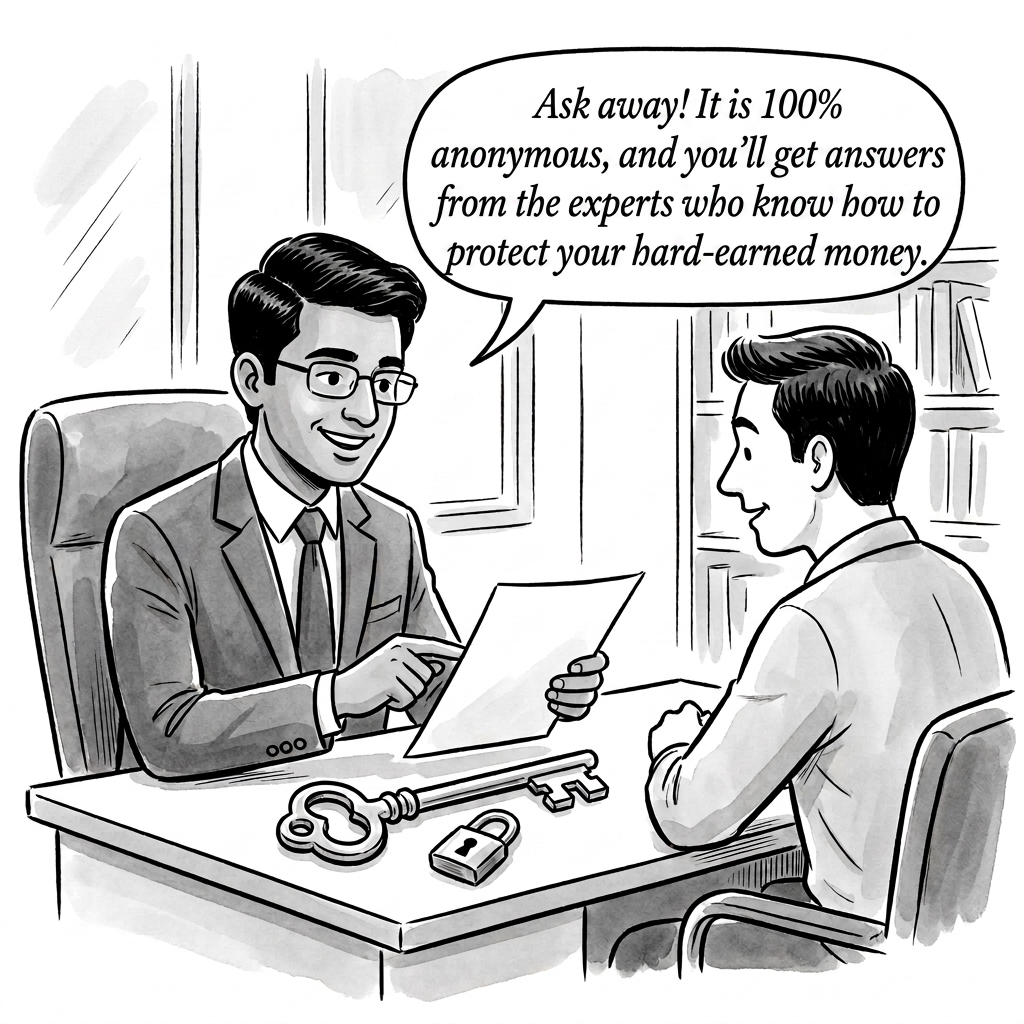
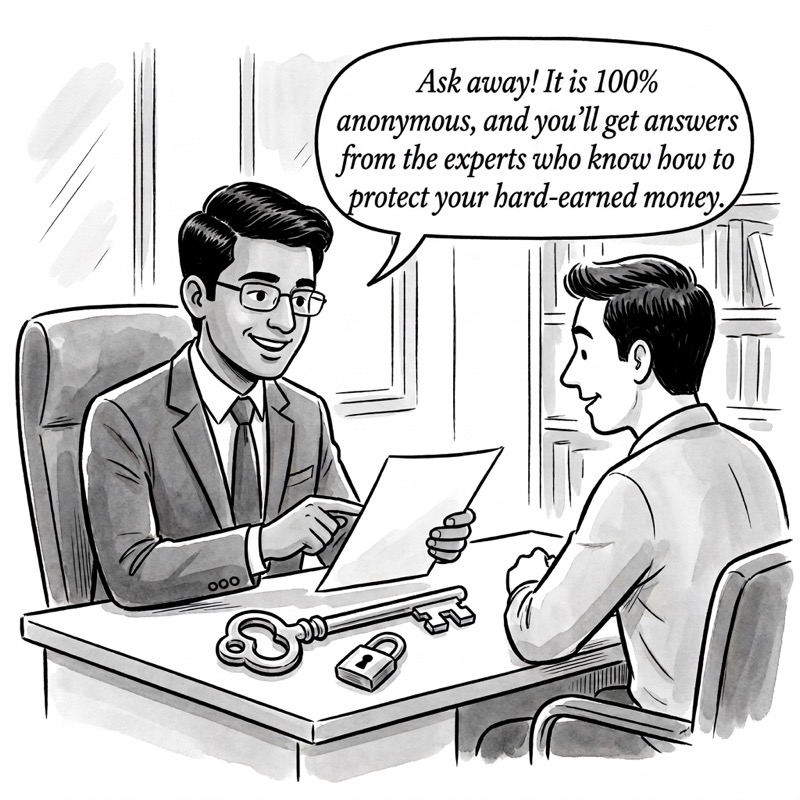
design: compress expert illustration to under 300KB and append cache buster to og:image to fix WhatsApp previews

diff --git a/ask.html b/ask.html
@@ -22,7 +22,7 @@
   <meta name="description" content="Get unbiased expert home loan advisory for loans above 2 Crores anonymously. Auto-generate a custom username, ask your question and bookmark your private answer link.">
   <meta property="og:title" content="Ask Home Loan Questions Anonymously (above ₹2 Cr) — Peaceful Loans">
   <meta property="og:description" content="Get unbiased expert home loan advisory for loans above 2 Crores anonymously. Auto-generate a custom username, ask your question and bookmark your private answer link.">
-  <meta property="og:image" content="https://peaceful-loans.com/assets/confidential-expert.jpg">
+  <meta property="og:image" content="https://peaceful-loans.com/assets/confidential-expert.jpg?v=2">
   <meta property="og:image:width" content="1200">
   <meta property="og:image:height" content="630">
   <meta property="og:url" content="https://peaceful-loans.com/ask.html">
